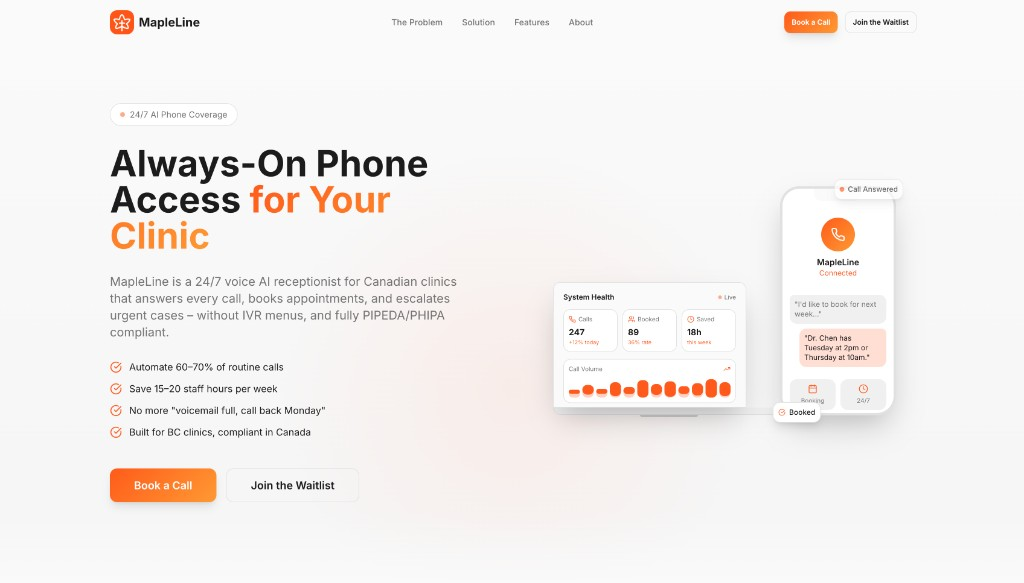
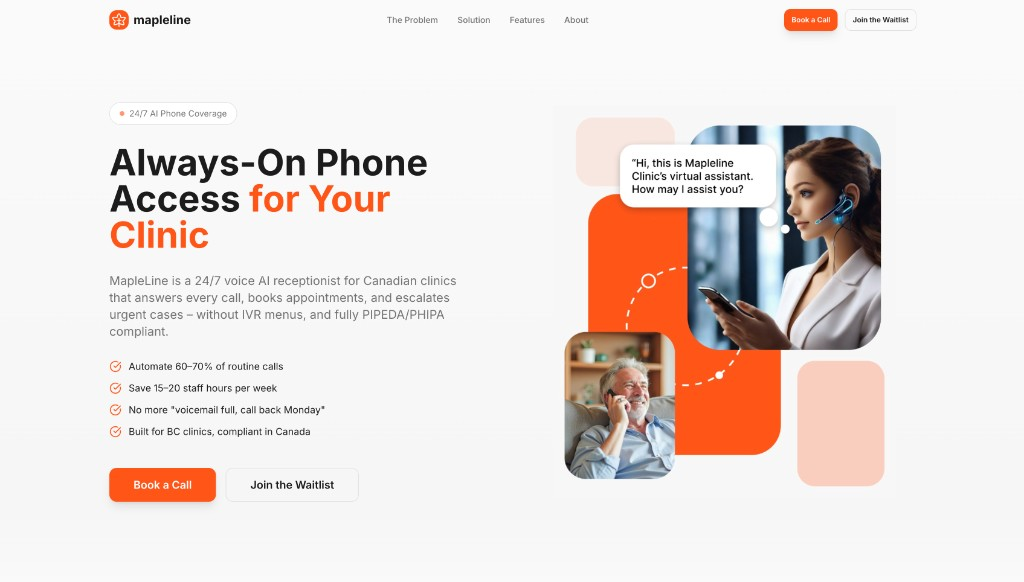
Update OG image, replace gradients with solid #FF5518

diff --git a/src/index.css b/src/index.css
@@ -54,14 +54,14 @@
 
     --font-sans: Inter, ui-sans-serif, system-ui, sans-serif;
 
-    /* Custom gradients */
-    --gradient-primary: linear-gradient(135deg, hsl(17 100% 55%), hsl(30 100% 60%));
+    /* Brand color - solid #FF5518 (no gradient) */
+    --gradient-primary: #FF5518;
     --gradient-hero: linear-gradient(180deg, hsl(0 0% 98%), hsl(0 0% 96%));
     --gradient-card: linear-gradient(180deg, hsl(0 0% 100%), hsl(0 0% 98%));
     --gradient-glow: radial-gradient(ellipse at center, hsl(17 100% 55% / 0.15), transparent 70%);
 
     /* Shadows */
-    --shadow-glow: 0 0 60px hsl(17 100% 55% / 0.2);
+    --shadow-glow: 0 0 60px rgba(255, 85, 24, 0.2);
     --shadow-card: 0 4px 24px hsl(0 0% 0% / 0.08);
   }
 }
@@ -82,7 +82,7 @@
 
 @layer utilities {
   .gradient-primary {
-    background: var(--gradient-primary);
+    background: #FF5518;
   }
 
   .gradient-hero {
@@ -98,10 +98,7 @@
   }
 
   .text-gradient {
-    background: var(--gradient-primary);
-    -webkit-background-clip: text;
-    -webkit-text-fill-color: transparent;
-    background-clip: text;
+    color: #FF5518;
   }
 
   .glass {

diff --git a/src/components/ui/button.tsx b/src/components/ui/button.tsx
@@ -15,7 +15,7 @@ const buttonVariants = cva(
         secondary: "bg-secondary text-secondary-foreground hover:bg-secondary/80",
         ghost: "hover:bg-muted hover:text-foreground",
         link: "text-primary underline-offset-4 hover:underline",
-        hero: "gradient-primary text-primary-foreground shadow-lg hover:shadow-glow hover:scale-105 active:scale-100",
+        hero: "bg-[#FF5518] text-white shadow-lg hover:bg-[#FF5518]/90 hover:shadow-glow hover:scale-105 active:scale-100",
         "hero-outline": "border-2 border-primary/50 bg-transparent text-primary hover:bg-primary/10 hover:border-primary",
         glass: "glass text-foreground hover:bg-card/60 border-border/30",
       },
